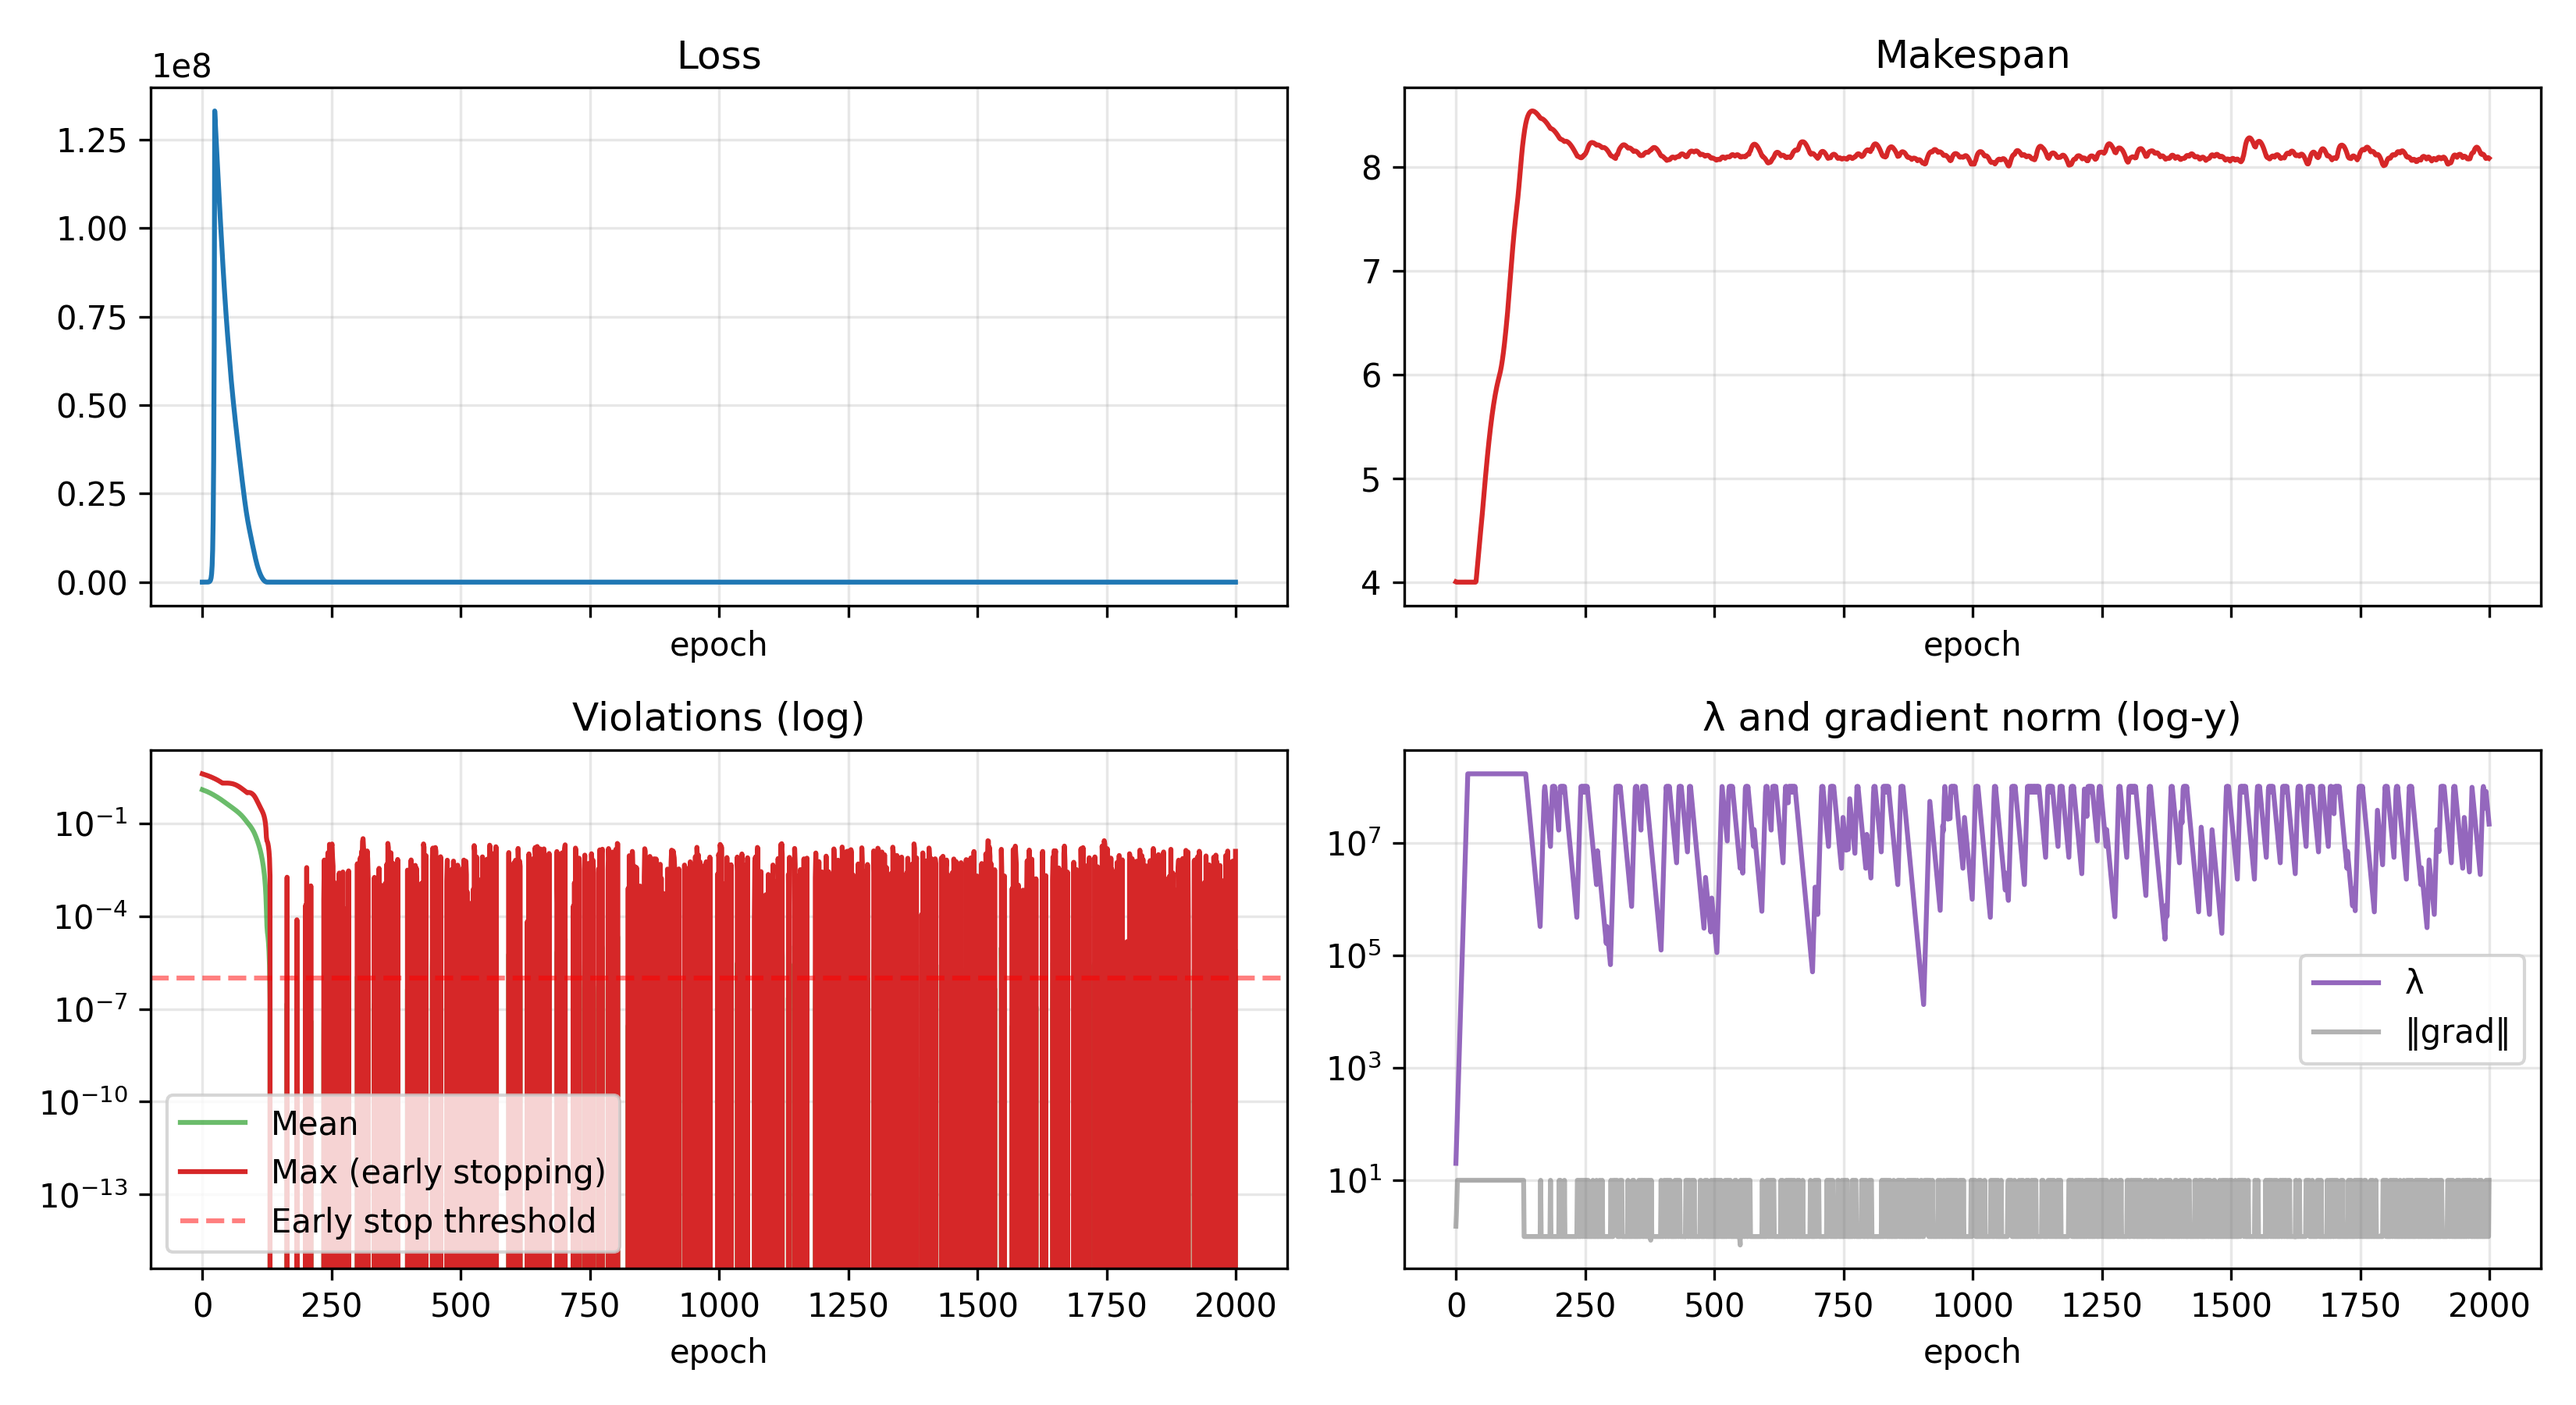
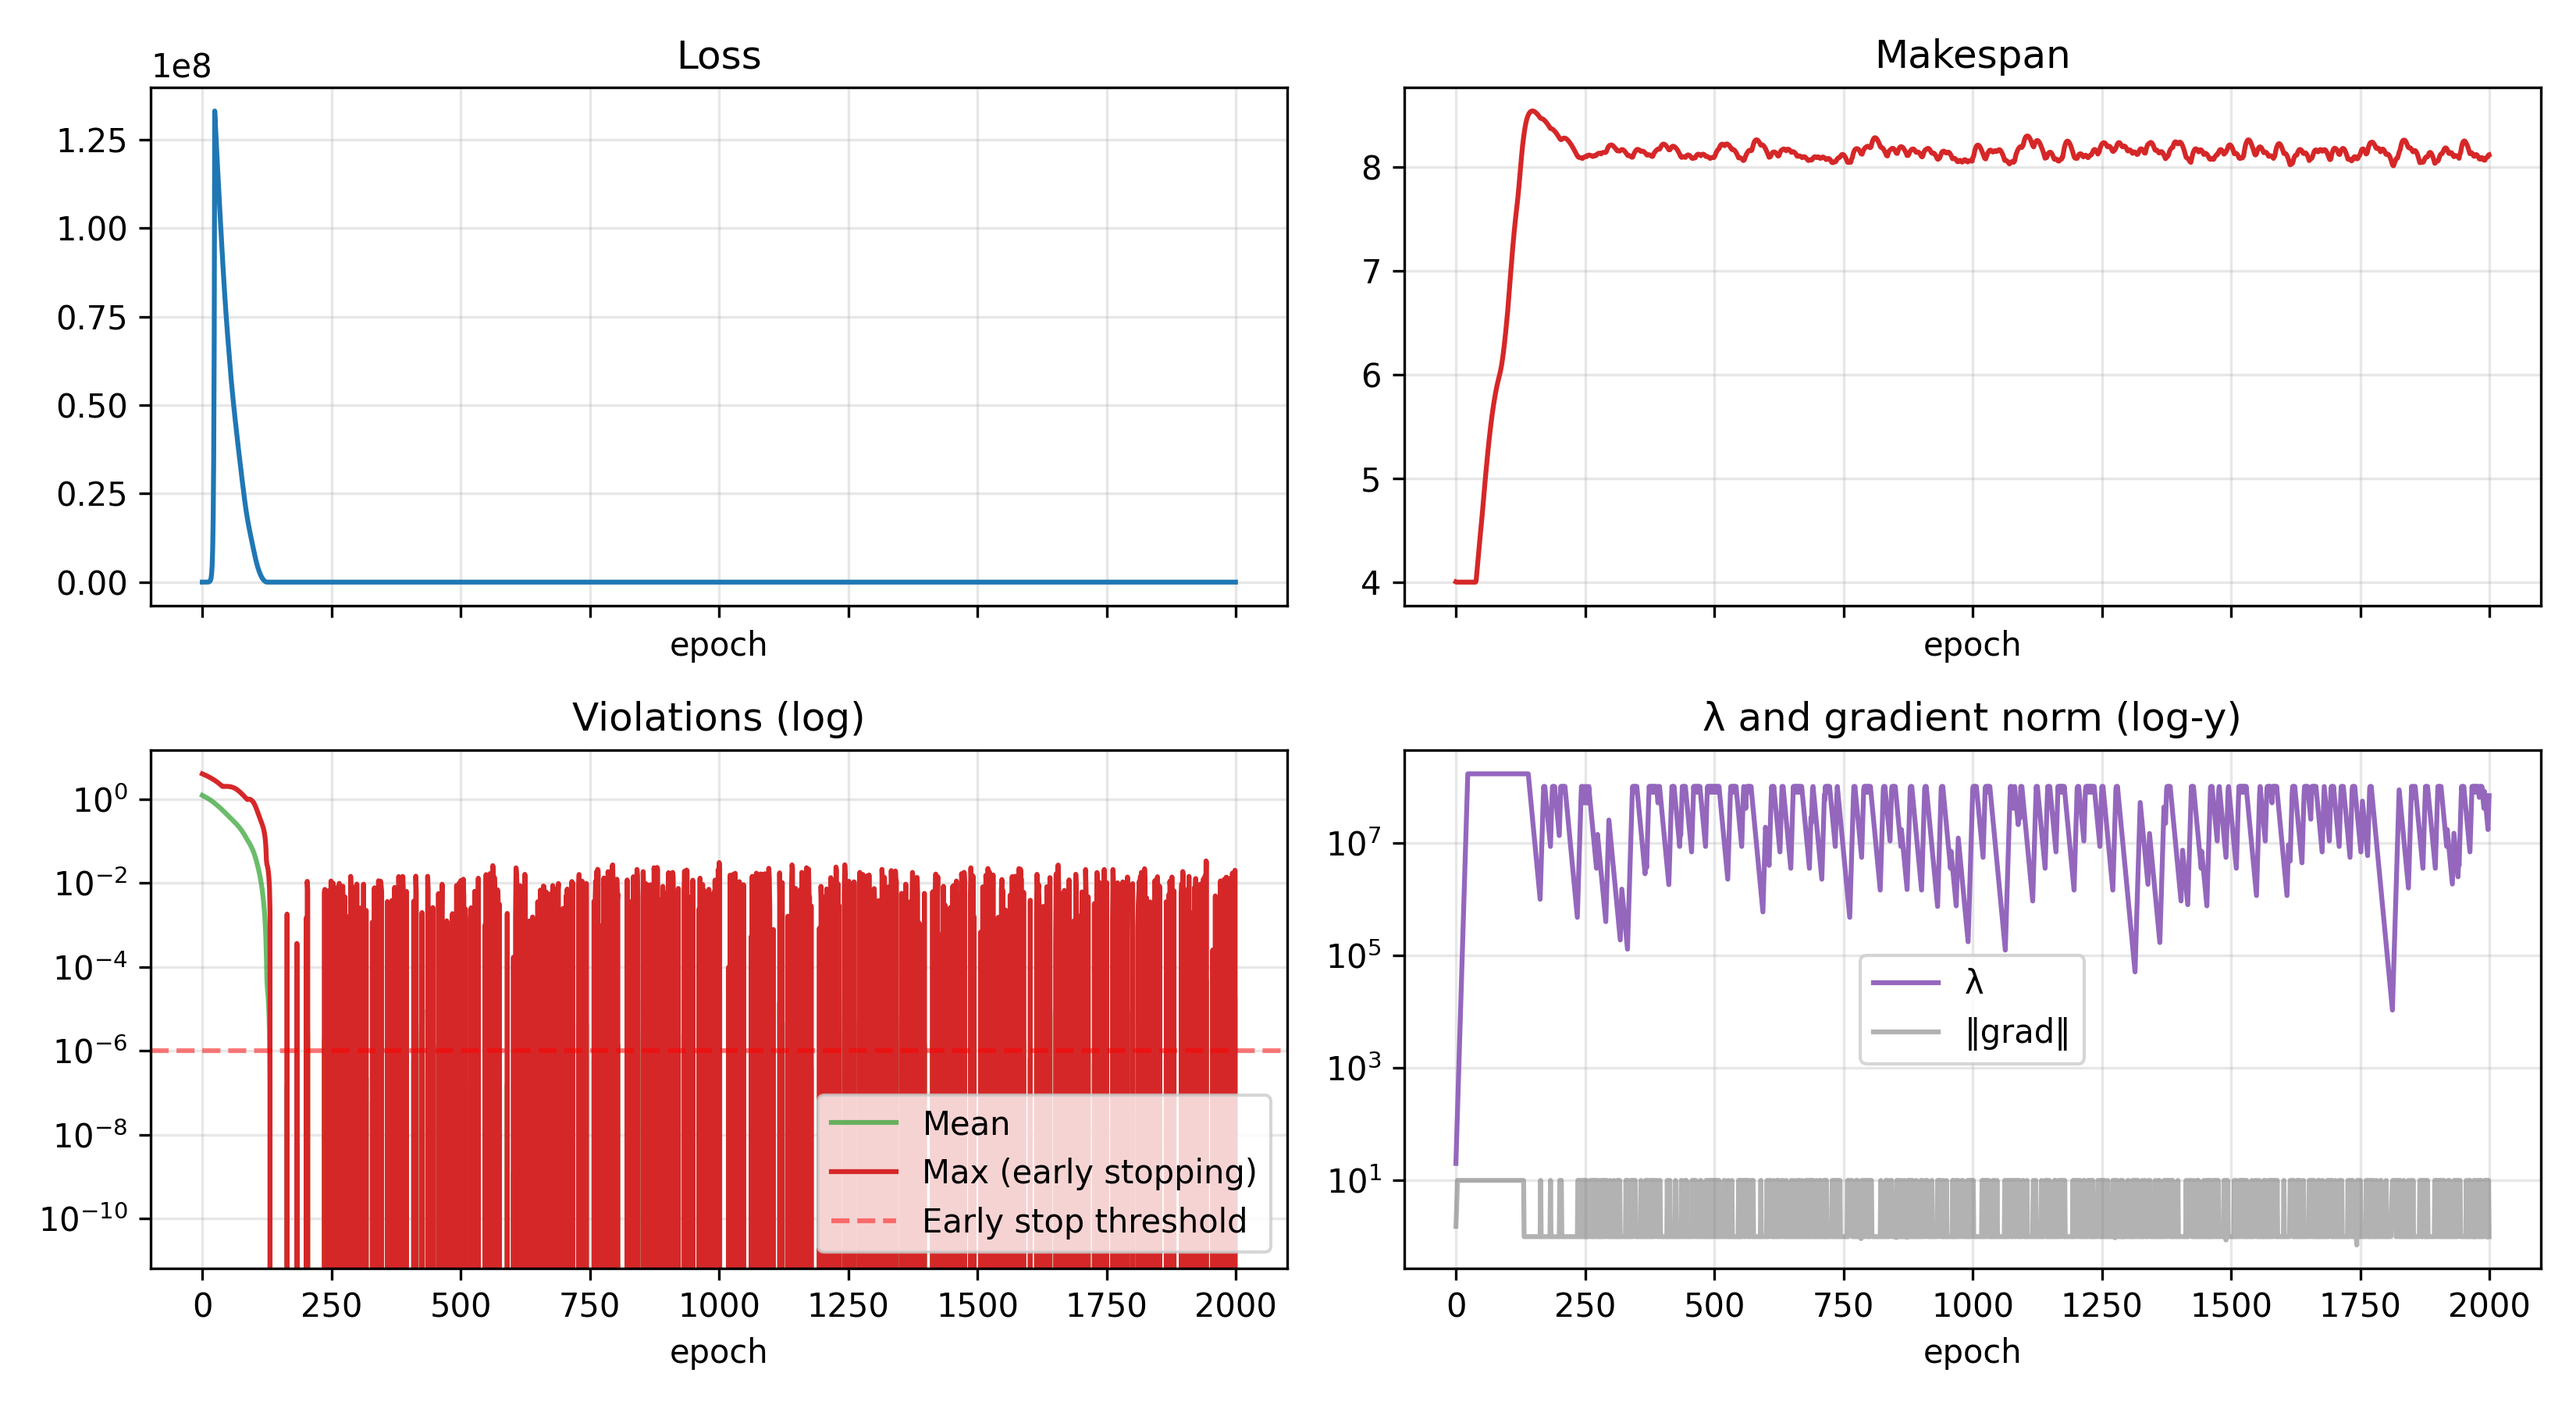
modified:   scheduler.py

diff --git a/scheduler.py b/scheduler.py
@@ -35,8 +35,8 @@ class DatalessProjectScheduler:
         enable_early_stopping=False,  # easy switch to disable early stopping
         penalty_reduction_factor=0.8,   # more aggressive reduction rate when violations stable
         lookback_window=20,       # epochs to look back for trend analysis
-        violation_reduction_threshold=0.001,  # reduce λ only when violations < this
-        violation_escalation_threshold=0.01,  # escalate λ when violations > this
+        violation_reduction_threshold=0.0001,  # reduce λ only when violations < this
+        violation_escalation_threshold=0.001,  # escalate λ when violations > this
         recovery_sensitivity=2.0,  # trigger recovery when violations increase by this factor
         beta_sharpening_threshold=2.0,  # trigger β doubling when violations < this
         penalty_beta_threshold=1000,  # trigger β doubling when λ > this
